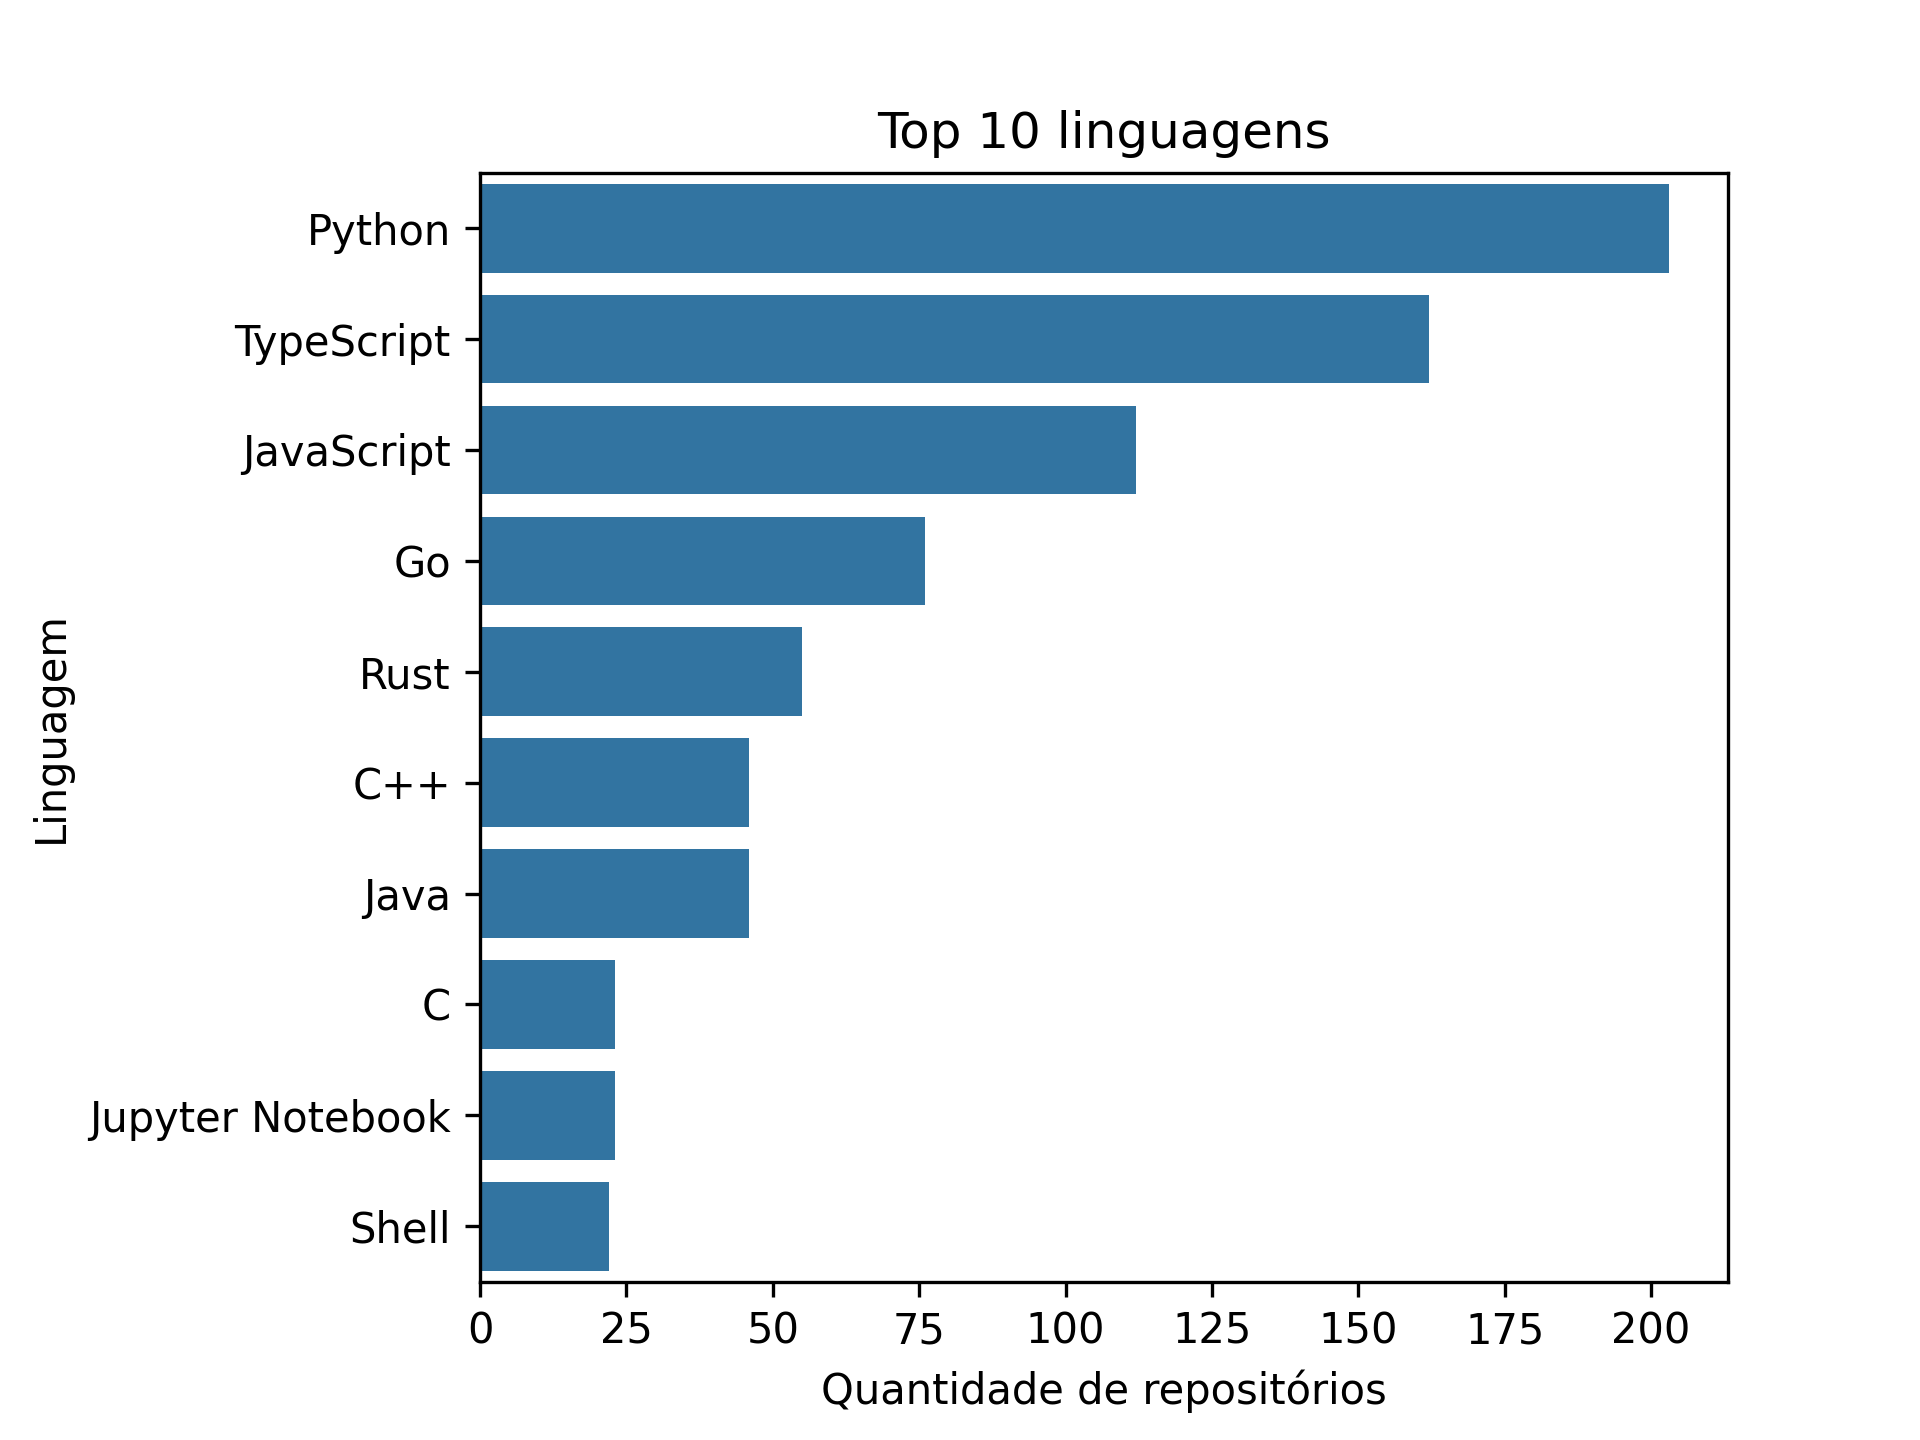
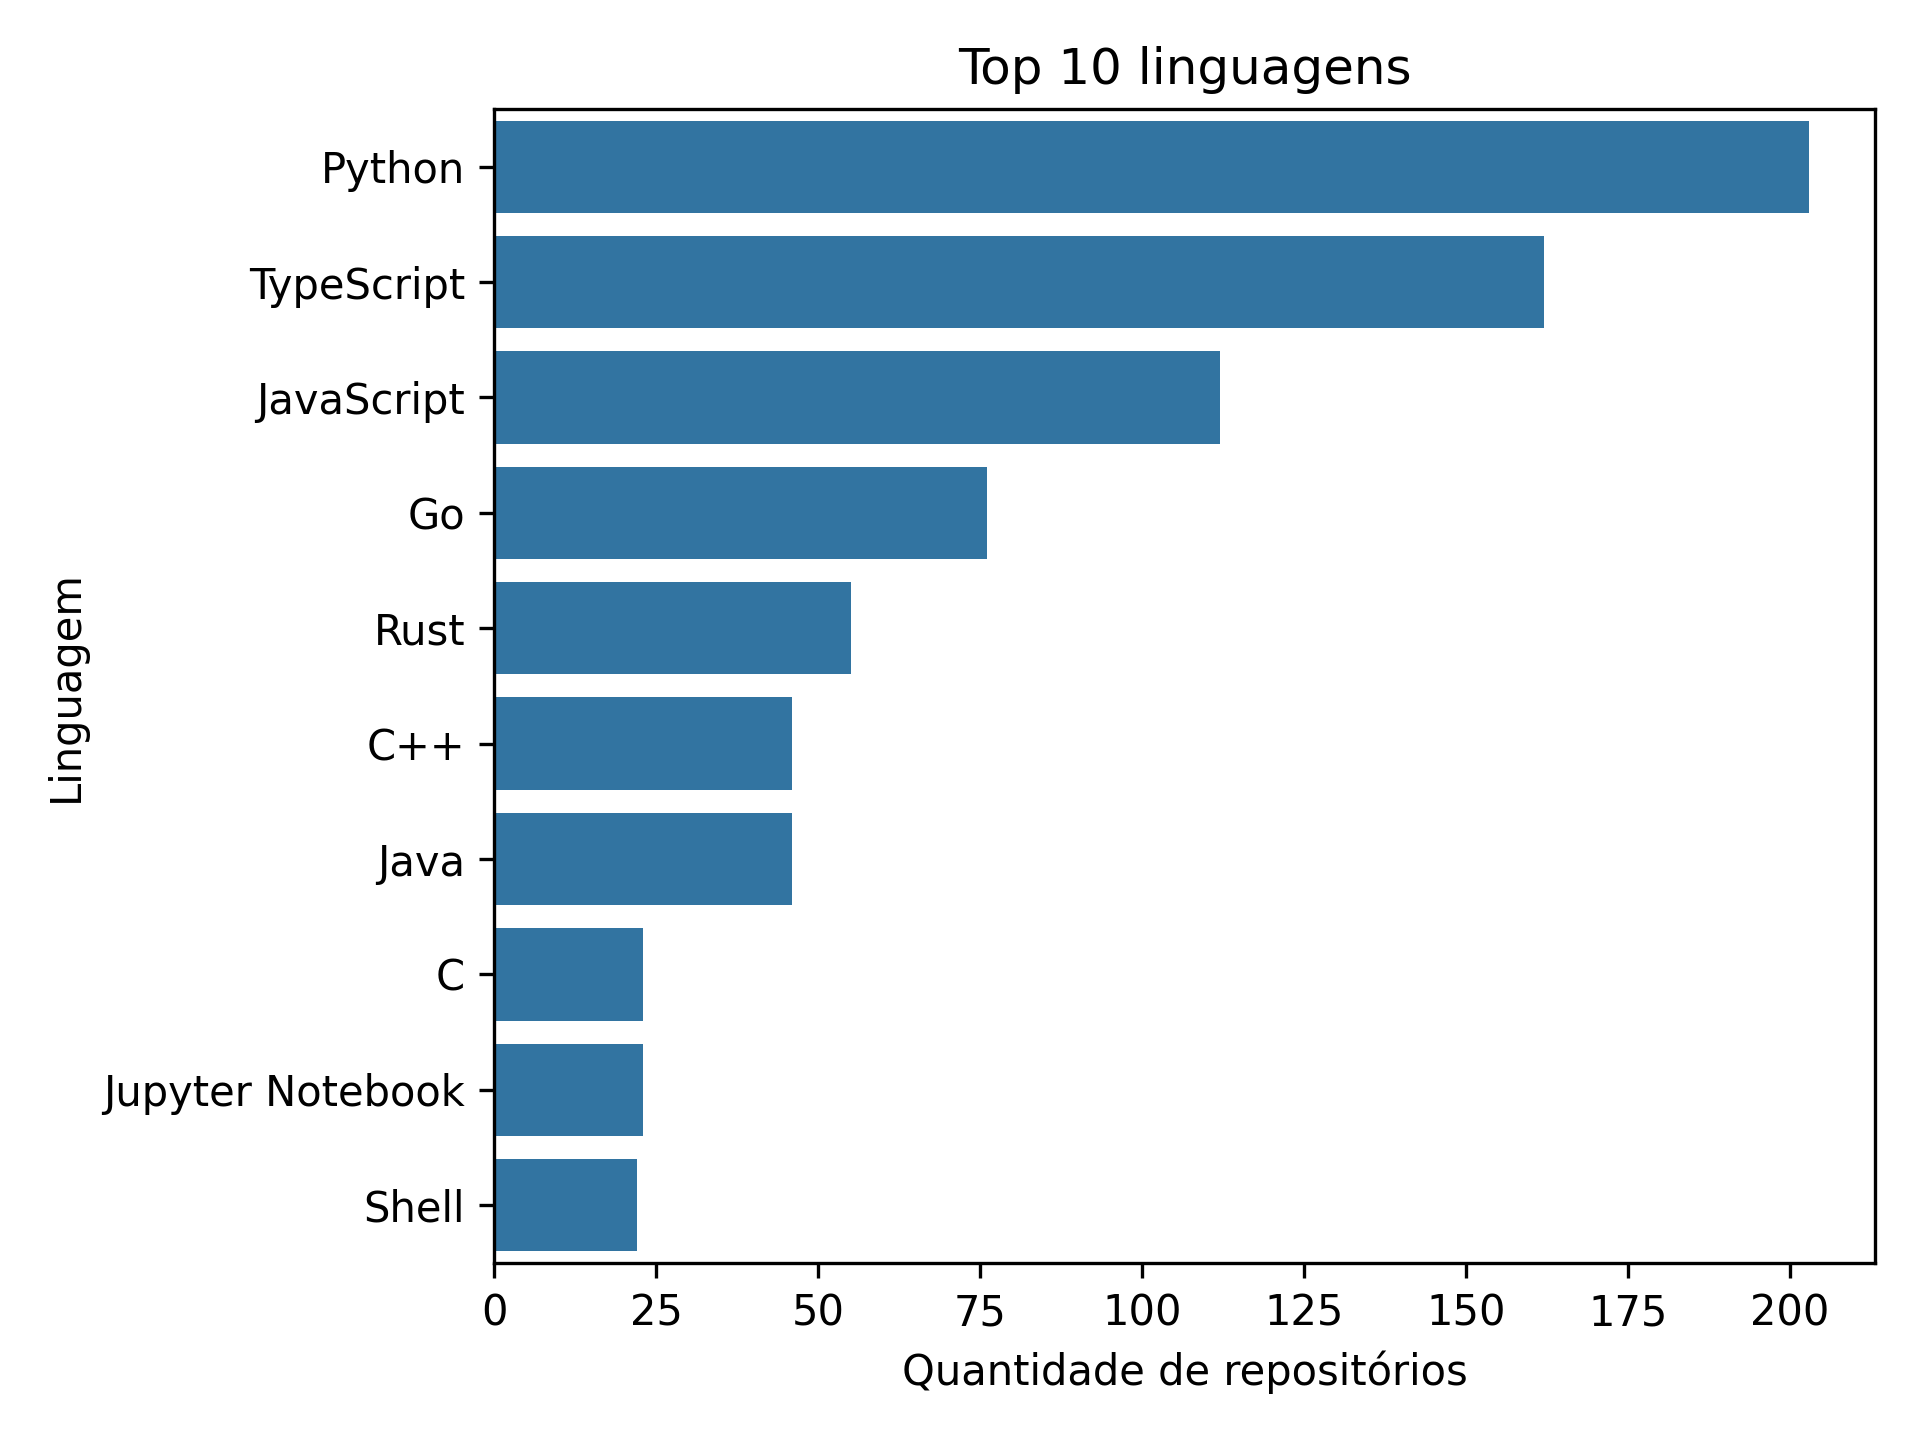
melhorando visualização do gráfico

Changed region(s): [[0.0312, 0.0312, 0.9688, 1.0], [0.0, 0.4062, 0.0625, 0.5625]]

diff --git a/src/analysis/analyze.py b/src/analysis/analyze.py
@@ -19,8 +19,8 @@ df["updated_at"] = pd.to_datetime(df["updated_at"])
 # Idade do repositório em anos
 df["age_years"] = (pd.Timestamp.now(tz="UTC") - df["created_at"]).dt.days / 365
 
-# Tempo desde última atualização (dias)
-df["days_since_update"] = (pd.Timestamp.now(tz="UTC") - df["updated_at"]).dt.days
+# Tempo desde última atualização (horas)
+df["hours_since_update"] = (pd.Timestamp.now(tz="UTC") - df["updated_at"]).dt.total_seconds() / 3600
 
 # Percentual de issues fechadas
 df["closed_issues_ratio"] = df["issues_closed"] / df["issues_total"]
@@ -89,18 +89,21 @@ plt.savefig("reports/figures/stars_vs_releases.png", dpi=300)
 # Atualização
 # =========================
 
-print("\nRQ04 — Dias desde última atualização:")
-print(df["days_since_update"].describe())
+print("\nRQ04 — Horas desde última atualização:")
+print(df["hours_since_update"].describe())
 
-median_update = df["days_since_update"].median()
+median_update = df["hours_since_update"].median()
 print("Mediana:", median_update)
 
 plt.figure()
-df["days_since_update"].hist(bins=30)
+df["hours_since_update"].hist(bins=80)
+
 plt.title("Tempo desde a última atualização")
-plt.xlabel("Dias")
-plt.ylabel("Quantidade")
-plt.savefig("reports/figures/days_since_update.png")
+plt.xlabel("Horas desde a última atualização")
+plt.ylabel("Repositórios")
+
+plt.tight_layout()
+plt.savefig("reports/figures/update_time_hours.png", dpi=300)
 
 # =========================
 # RQ05
@@ -117,7 +120,7 @@ sns.barplot(x=top_languages.values, y=top_languages.index)
 plt.title("Top 10 linguagens")
 plt.xlabel("Quantidade de repositórios")
 plt.ylabel("Linguagem")
-plt.subplots_adjust(left=0.25)
+plt.tight_layout()
 plt.savefig("reports/figures/top_languages.png", dpi=300)
 
 # =============================
@@ -146,7 +149,7 @@ plt.savefig("reports/figures/closed_issues_ratio.png")
 # metrics_by_language = df.groupby("language").agg({
 #     "merged_prs": "mean",
 #     "releases": "mean",
-#     "days_since_update": "mean"
+#     "hours_since_update": "mean"
 # }).sort_values("merged_prs", ascending=False)
 
 # print("\nRQ07 — Métricas médias por linguagem:")
@@ -163,23 +166,23 @@ plt.savefig("reports/figures/closed_issues_ratio.png")
 # plt.ylabel("Releases")
 
 # plt.figure()
-# metrics_by_language.head(10)["days_since_update"].plot(kind="bar")
+# metrics_by_language.head(10)["hours_since_update"].plot(kind="bar")
 # plt.title("Tempo médio desde atualização por linguagem")
-# plt.ylabel("Dias")
+# plt.ylabel("Horas")
 
 medians = {
     "metric": [
         "age_years",
         "merged_prs",
         "releases",
-        "days_since_update",
+        "hours_since_update",
         "closed_issues_ratio"
     ],
     "median": [
         round(df["age_years"].median(), 2),
         round(df["merged_prs"].median(), 2),
         round(df["releases"].median(), 2),
-        round(df["days_since_update"].median(), 2),
+        round(df["hours_since_update"].median(), 2),
         round(df["closed_issues_ratio"].median(), 2)
     ]
 }
